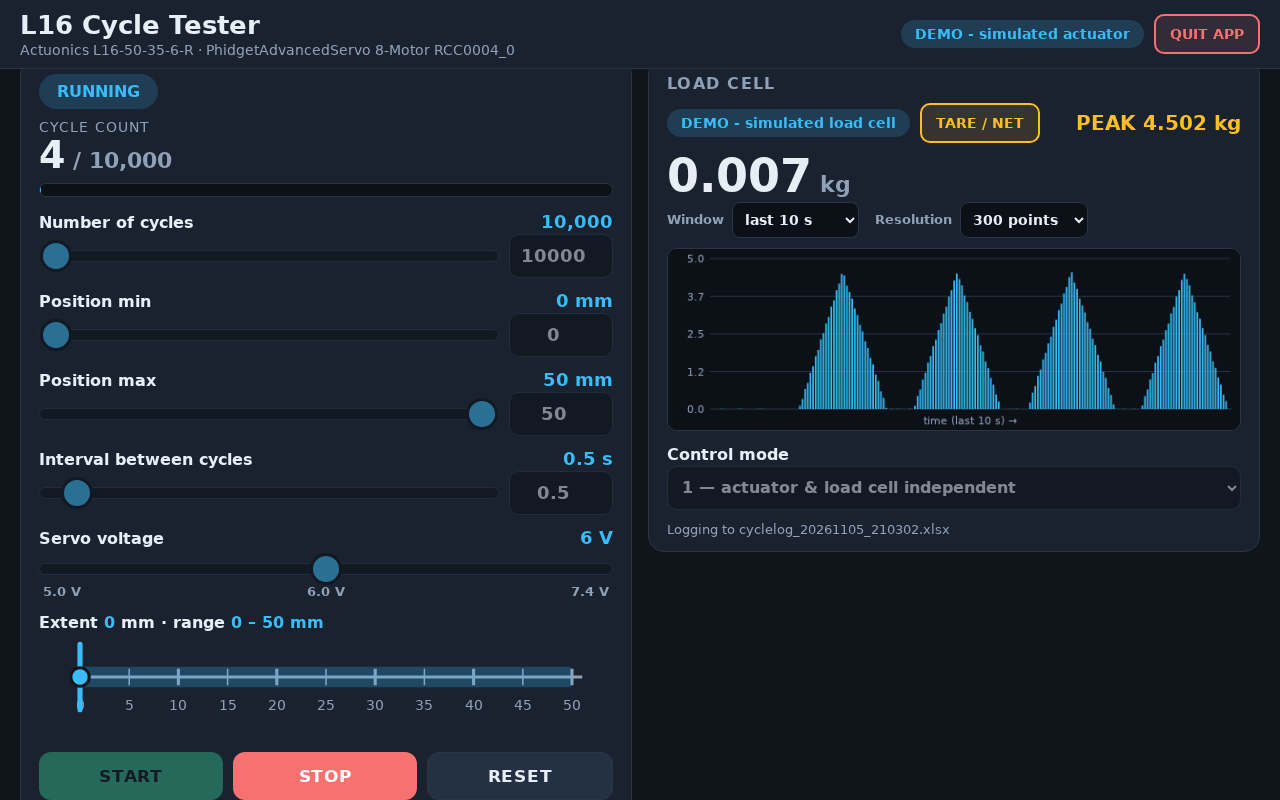
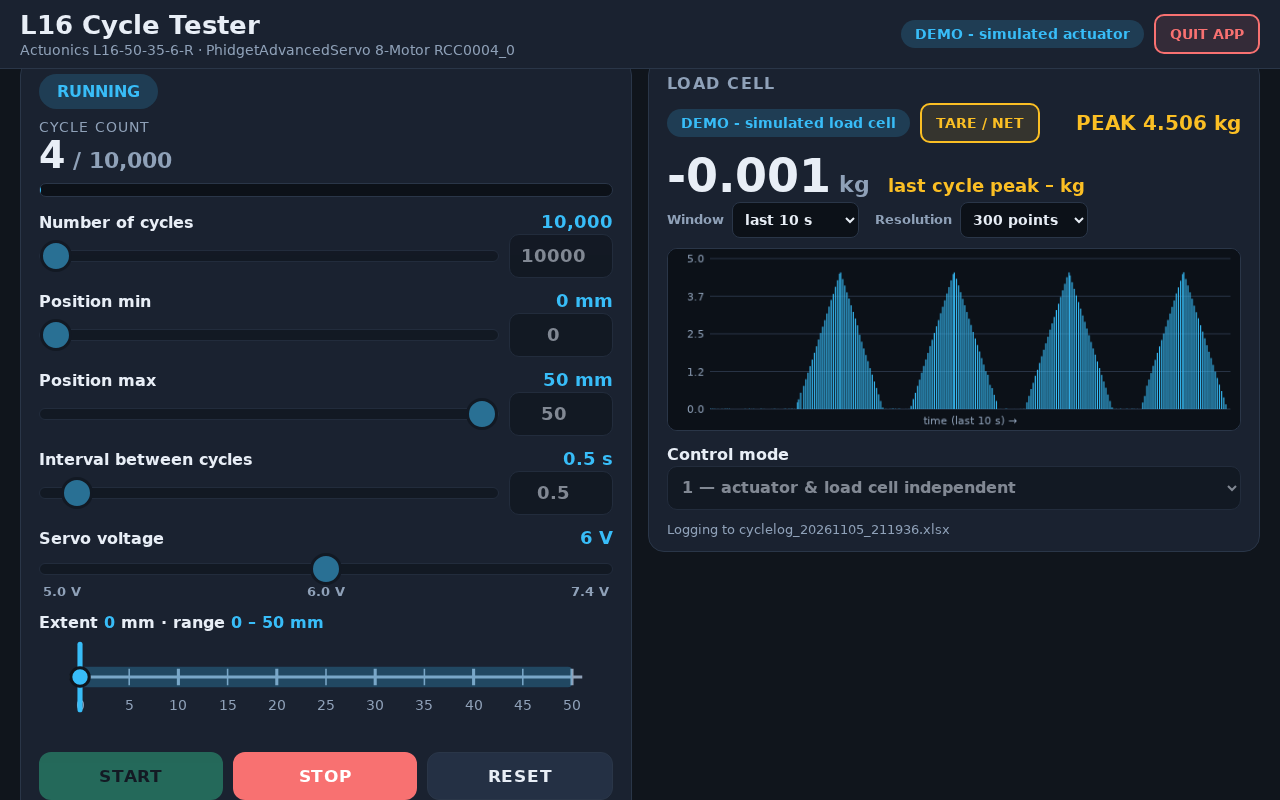
Constant-load: adaptive 1/0.5/0.1mm approach steps + 50Hz load polling to cut overshoot; last-cycle-peak readout next to live value; chart decimation to peak-per-bucket with single-line rendering at high resolution

Changed region(s): [[0.625, 0.3438, 0.9688, 0.5312], [0.5, 0.1875, 0.8438, 0.25], [0.6875, 0.6562, 0.7188, 0.6875]]

diff --git a/static/app.js b/static/app.js
@@ -387,6 +387,7 @@ function render() {
     loadPill.className = "pill bad";
   }
   $("load-kg").textContent = load.kg !== null ? load.kg.toFixed(3) : "--";
+  $("load-prev-peak").textContent = load.prev_cycle_peak_kg != null ? load.prev_cycle_peak_kg.toFixed(3) : "–";
   $("btn-tare").disabled = !load.connected;
   drawChart(load.history || [], c.mode === "2b" ? c.load_goal_kg : null);
   $("run-file").textContent = s.run_file ? "Logging to " + s.run_file : "";
@@ -470,13 +471,27 @@ function drawChart(history, goalKg) {
     ctx.fillText("goal " + goalKg.toFixed(1) + " kg", padL + 4, gy - 4);
   }
   const n = history.length;
-  const bw = Math.max(1, plotW / n - 1);
-  ctx.fillStyle = "#38bdf8";
-  for (let i = 0; i < n; i++) {
-    const [t, v] = history[i];
-    const x = padL + ((t - t0) / span) * plotW;
-    const h = (Math.max(v, 0) / maxV) * plotH;
-    ctx.fillRect(x, padT + plotH - h, bw, h);
+  if (n > 300) {
+    ctx.strokeStyle = "#38bdf8";
+    ctx.lineWidth = 1.5;
+    ctx.beginPath();
+    for (let i = 0; i < n; i++) {
+      const [t, v] = history[i];
+      const x = padL + ((t - t0) / span) * plotW;
+      const y = padT + plotH - (Math.max(v, 0) / maxV) * plotH;
+      if (i === 0) ctx.moveTo(x, y);
+      else ctx.lineTo(x, y);
+    }
+    ctx.stroke();
+  } else {
+    const bw = Math.max(1, plotW / n - 1);
+    ctx.fillStyle = "#38bdf8";
+    for (let i = 0; i < n; i++) {
+      const [t, v] = history[i];
+      const x = padL + ((t - t0) / span) * plotW;
+      const h = (Math.max(v, 0) / maxV) * plotH;
+      ctx.fillRect(x, padT + plotH - h, bw, h);
+    }
   }
 }
 

diff --git a/static/index.html b/static/index.html
@@ -90,7 +90,7 @@
       <button type="button" id="btn-tare" class="reconnect-btn">TARE / NET</button>
       <div class="load-peak">PEAK <span id="load-peak">0.000</span> kg</div>
     </div>
-    <div class="load-value"><span id="load-kg">0.000</span><span class="unit"> kg</span></div>
+    <div class="load-value"><span id="load-kg">0.000</span><span class="unit"> kg</span><span class="prev-peak">last cycle peak <span id="load-prev-peak">–</span> kg</span></div>
     <div class="chart-controls">
       <label>Window
         <select id="chart-win">

diff --git a/static/style.css b/static/style.css
@@ -134,6 +134,8 @@ main {
 
 .load-value { font-size: 46px; font-weight: 800; font-variant-numeric: tabular-nums; line-height: 1.1; }
 .load-value .unit { font-size: 22px; color: var(--muted); font-weight: 600; }
+.prev-peak { margin-left: 18px; font-size: 18px; font-weight: 700; color: var(--warn); }
+.prev-peak span { font-variant-numeric: tabular-nums; }
 
 #load-chart { width: 100%; height: auto; display: block; background: #0c1118; border: 1px solid var(--panel-edge); border-radius: 10px; margin: 10px 0 14px; }
 

diff --git a/engine.py b/engine.py
@@ -65,6 +65,7 @@ class CycleEngine:
                 "position_mm": self.actuator.position_mm,
                 "voltage": self.actuator.get_voltage(),
                 "run_peak_kg": self._run_peak,
+                "prev_cycle_peak_kg": self._prev_peak,
             }
 
     def set_config(self, cfg):
@@ -230,14 +231,18 @@ class CycleEngine:
             and not self._stop_evt.is_set()
             and not self._fail_evt.is_set()
         ):
-            pos = min(cap, pos + 1.0)
-            self.actuator.move_to_mm(pos, timeout_s=30, cancel_evt=self._stop_evt)
             load = self._load()
             if load is not None:
                 if load > self._cycle_peak:
                     self._cycle_peak = load
                 if load >= target_load:
                     break
+                remaining = target_load - load
+                step = 1.0 if remaining > 0.5 else (0.5 if remaining > 0.2 else 0.1)
+            else:
+                step = 1.0
+            pos = min(cap, pos + step)
+            self.actuator.move_to_mm(pos, timeout_s=30, cancel_evt=self._stop_evt)
         return pos
 
     def _run(self):

diff --git a/loadcell.py b/loadcell.py
@@ -5,8 +5,8 @@ from collections import deque
 
 READ_CMD = b"!001:SYS?\r"
 BAUD = 115200
-POLL_HZ = 20.0
-HIST_MAX = 36000
+POLL_HZ = 50.0
+HIST_MAX = 90000
 WINDOW_MAX_S = 1800.0
 POINTS_MAX = 1200
 
@@ -186,8 +186,12 @@ class DscUsbLoadCell(LoadCellBase):
 def _decimate(items, max_points):
     max_points = max(2, min(int(max_points), POINTS_MAX))
     if len(items) > max_points:
-        step = -(-len(items) // max_points)
-        picked = items[::step]
+        n = len(items)
+        bucket = -(-n // max_points)
+        picked = []
+        for i in range(0, n, bucket):
+            chunk = items[i : i + bucket]
+            picked.append(max(chunk, key=lambda p: p[1]))
         if picked and picked[-1] is not items[-1]:
             picked.append(items[-1])
         items = picked

diff --git a/server.py b/server.py
@@ -171,6 +171,7 @@ class App:
             "name": lc.name,
             "kg": kg_now,
             "peak_kg": round(max(snap.get("run_peak_kg", 0.0), hist_peak, kg_now or 0.0), 3),
+            "prev_cycle_peak_kg": snap.get("prev_cycle_peak_kg"),
             "history": hist,
         }
         snap["run_file"] = self.recorder.file_name if self.recorder is not None and self.recorder.active else None
